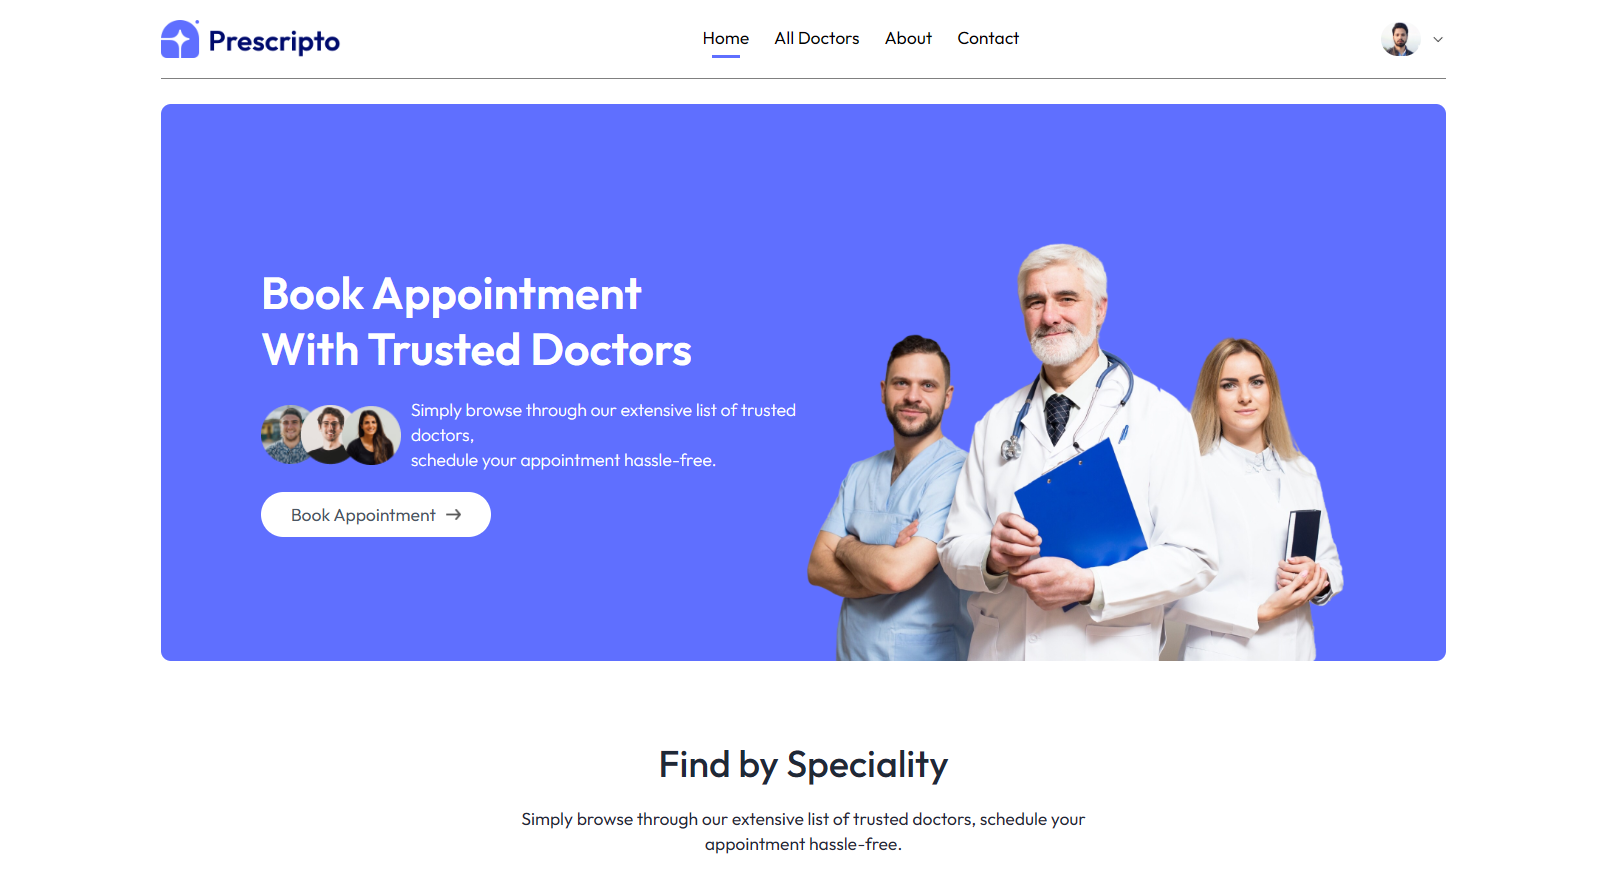
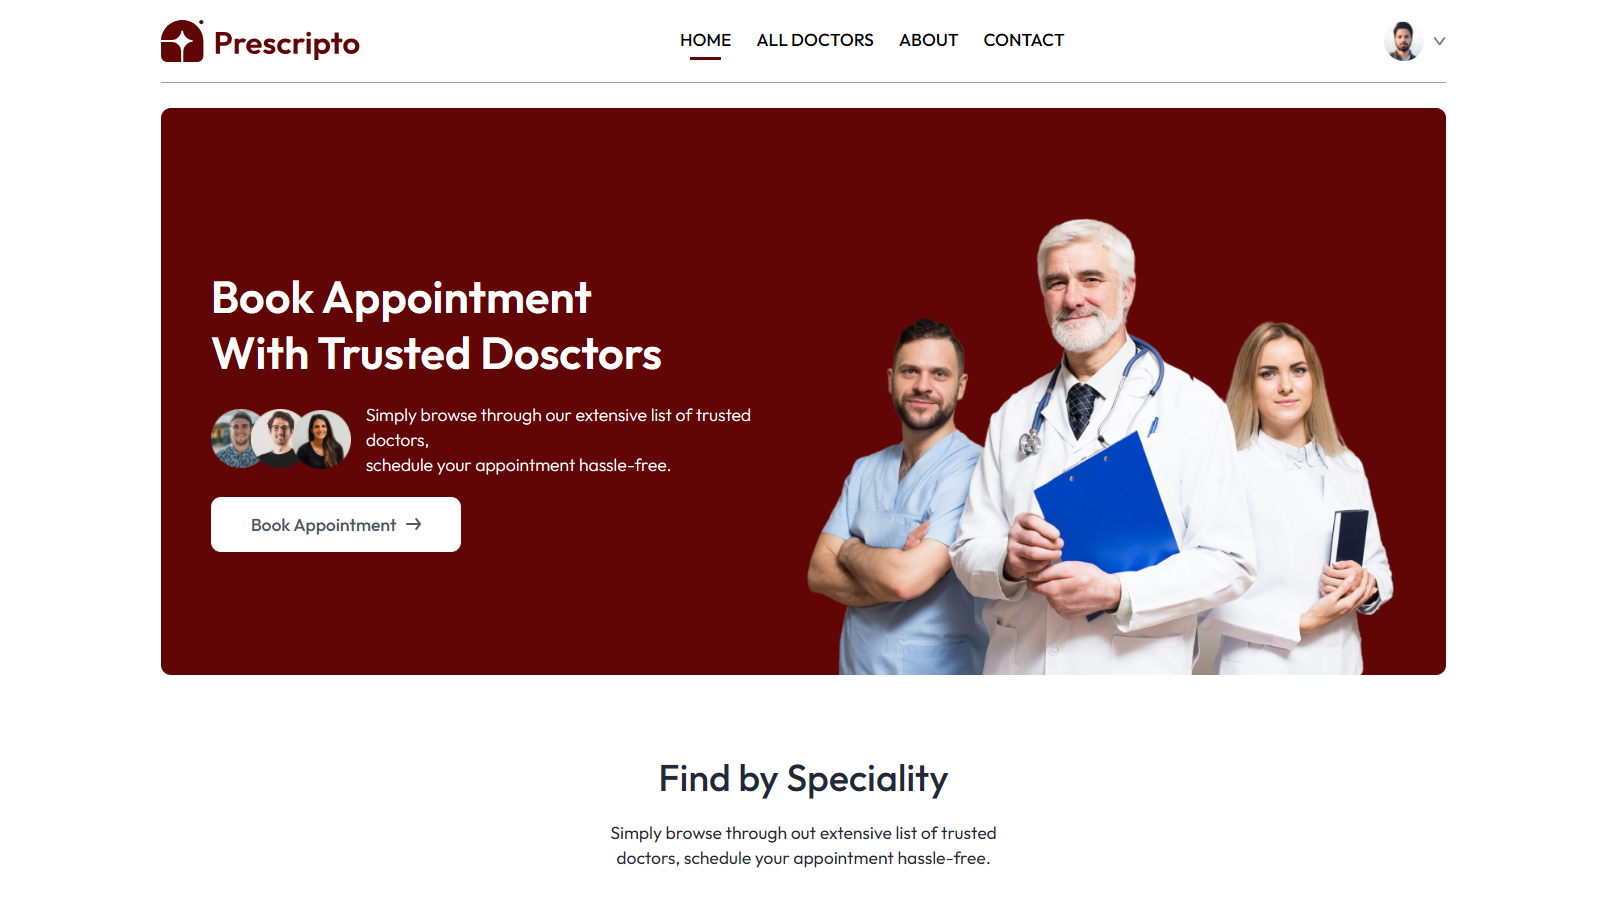
2 new projects added

diff --git a/ArslanPortfolio/src/assets/workData.js b/ArslanPortfolio/src/assets/workData.js
@@ -1,74 +1,88 @@
-import wImage1 from "./doc_appointment.png";
-import wImage2 from "./ecommerce_app.png";
-import wImage3 from "./food_app.png";
-import wImage4 from "./wanderlust.png";
-import wImage5 from "./real_estate.png";
-import wImage6 from "./college_app.png";
-import wImage7 from "./weather_forcasting.png";
-import wImage8 from "./youtube_clone.png";
-import wImage9 from "./spotify.png";
-import wImage10 from "./blog_app.png";
+import wImage1 from "./lms.png";
+import wImage2 from "./grocery.png";
+import wImage3 from "./doc_appointment.png";
+import wImage4 from "./ecommerce_app.png";
+import wImage5 from "./food_app.png";
+import wImage6 from "./wanderlust.png";
+import wImage7 from "./real_estate.png";
+import wImage8 from "./college_app.png";
+import wImage9 from "./weather_forcasting.png";
+import wImage10 from "./youtube_clone.png";
+import wImage11 from "./spotify.png";
+import wImage12 from "./blog_app.png";
 
 
 export const workData = [
   {
     wNo: 1,
-    wName: "Doctor Appointment App",
+    wName: "LMS Project",
     wImage: wImage1,
-    wLink: "https://how-i-grow-doctor-appointment.onrender.com",
+    wLink: "https://edemy-skills-lms.onrender.com/",
   },
   {
     wNo: 2,
-    wName: "E-commerce App",
+    wName: "Grocery Website",
     wImage: wImage2,
-    wLink: "https://e-commerce-connect.onrender.com",
+    wLink: "https://grocery-your-need.onrender.com",
   },
   {
     wNo: 3,
-    wName: "Food Delivery App",
+    wName: "Doctor Appointment App",
     wImage: wImage3,
-    wLink: "https://cooking-food-delivery.onrender.com",
+    wLink: "https://how-i-grow-doctor-appointment.onrender.com",
   },
   {
     wNo: 4,
-    wName: "Wanderlust Travel Site",
+    wName: "E-commerce App",
     wImage: wImage4,
-    wLink: "https://a-z-wanderlust.onrender.com/listings",
+    wLink: "https://e-commerce-connect.onrender.com",
   },
   {
     wNo: 5,
-    wName: "Real Estate App",
+    wName: "Food Delivery App",
     wImage: wImage5,
-    wLink: "https://real-estate-properties.onrender.com",
+    wLink: "https://cooking-food-delivery.onrender.com",
   },
   {
     wNo: 6,
-    wName: "College App",
+    wName: "Wanderlust Travel Site",
     wImage: wImage6,
-    wLink: "https://zaroon-international-university.onrender.com",
+    wLink: "https://a-z-wanderlust.onrender.com/listings",
   },
   {
     wNo: 7,
-    wName: "Weather Forecasting App",
+    wName: "Real Estate App",
     wImage: wImage7,
-    wLink: "https://my-weather-api-6byz.onrender.com/signup",
+    wLink: "https://real-estate-properties.onrender.com",
   },
   {
     wNo: 8,
-    wName: "Youtube Clone",
+    wName: "College App",
     wImage: wImage8,
-    wLink: "https://youtube-clone-reactjs.onrender.com",
+    wLink: "https://zaroon-international-university.onrender.com",
   },
   {
     wNo: 9,
-    wName: "Spotify Clone",
+    wName: "Weather Forecasting App",
     wImage: wImage9,
-    wLink: "https://spotify-clone-reactjs.onrender.com",
+    wLink: "https://my-weather-api-6byz.onrender.com/signup",
   },
   {
     wNo: 10,
-    wName: "Blog Application",
+    wName: "Youtube Clone",
     wImage: wImage10,
+    wLink: "https://youtube-clone-reactjs.onrender.com",
+  },
+  {
+    wNo: 11,
+    wName: "Spotify Clone",
+    wImage: wImage11,
+    wLink: "https://spotify-clone-reactjs.onrender.com",
+  },
+  {
+    wNo: 12,
+    wName: "Blog Application",
+    wImage: wImage12,
     wLink: "https://howigrow-blogs.onrender.com",
   },
 ];
